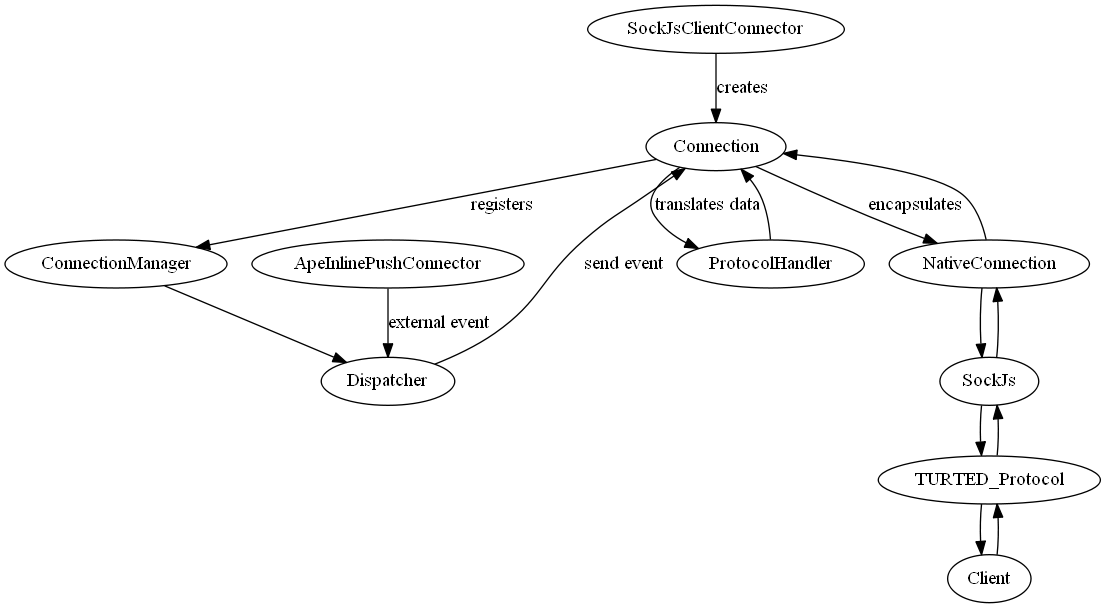
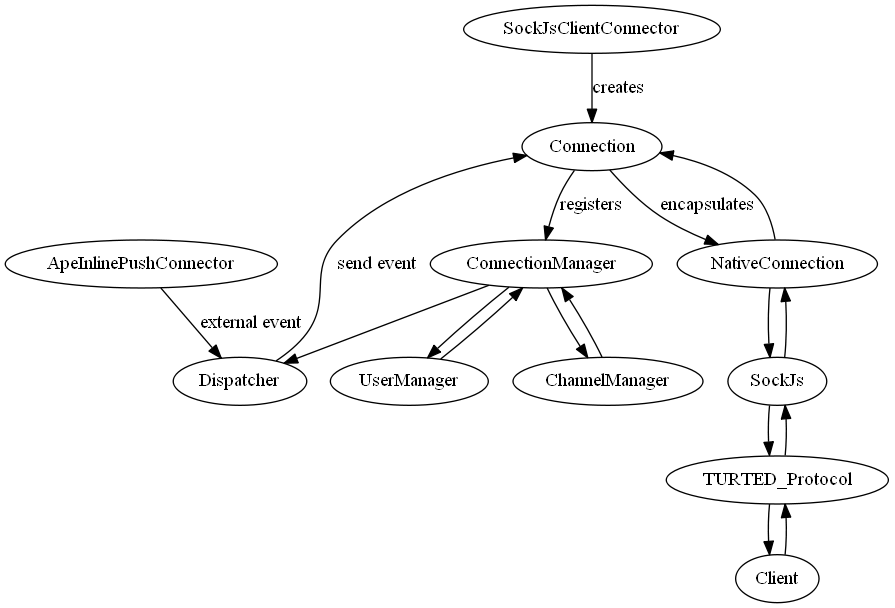
Add pic to readme

Changed region(s): [[0.0, 0.0938, 0.9955, 1.0], [0.5128, 0.0, 0.8145, 0.0938], [0.5732, 0.5312, 0.7844, 0.6875]]

diff --git a/README.md b/README.md
@@ -5,19 +5,24 @@ node.js implementation of a universal real time event dispatcher
 
 Basic idea:
 -----------
-
 Create an abstraction protocol for handling real time connections to push events from server to client.
 Users can log in and join channels so the server can push messages to selected clients (via username or channel)
 
 Heavily inspired by the work of the http://ape-project.org and based on my implementations back in 2011 on this topic
 (see http://de.slideshare.net/Xosofox/real-time-event-dispatcher)
 
+![Data overview](flow.png)
+
 Why?
 ----
-
 Looks like a basic chat application is the first thing everybody implements when playing with nodejs and sock.js, but
 I did not really find a library out there taking the load of the dev when you need a little bit more funtionality.
 
 Especially handling channels and providing a clean and operational client interface is the target of this project
+
+What else?
+----------
+This is my first node.js project, so I wanted to give it a spin even if I'm re-inventing a wheel or violate agains
+the NIH principle.
 
 [![Build Status](https://travis-ci.org/TURTED/TURTED_node.png?branch=master)](https://travis-ci.org/TURTED/TURTED_node)
